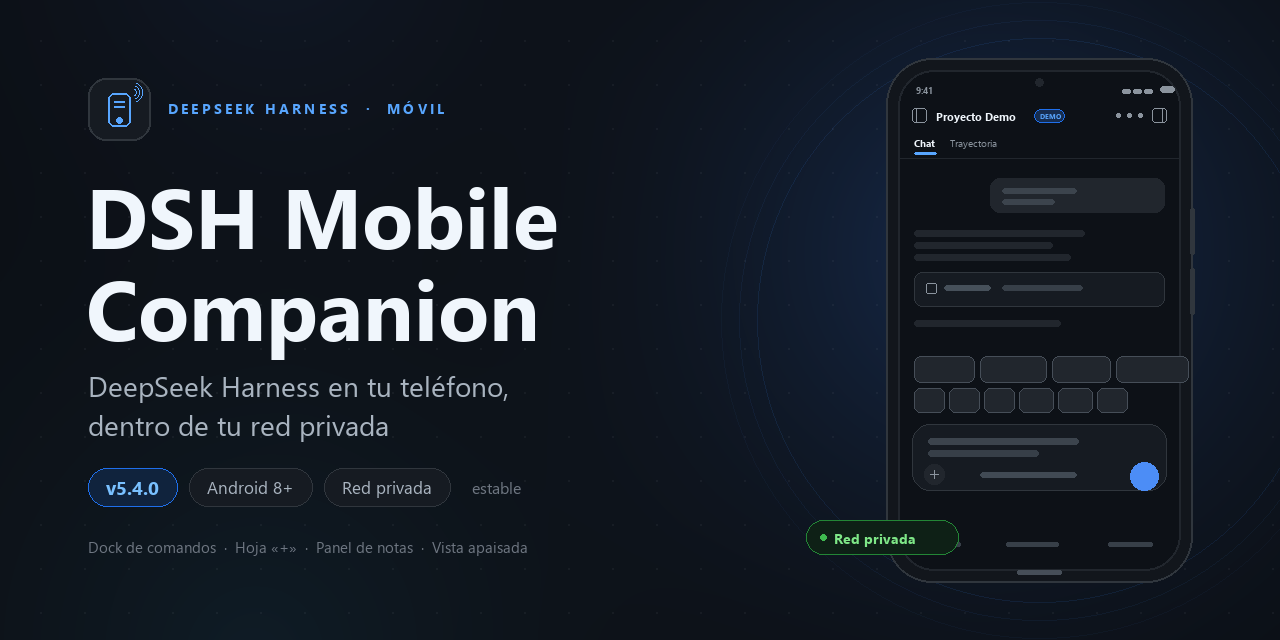
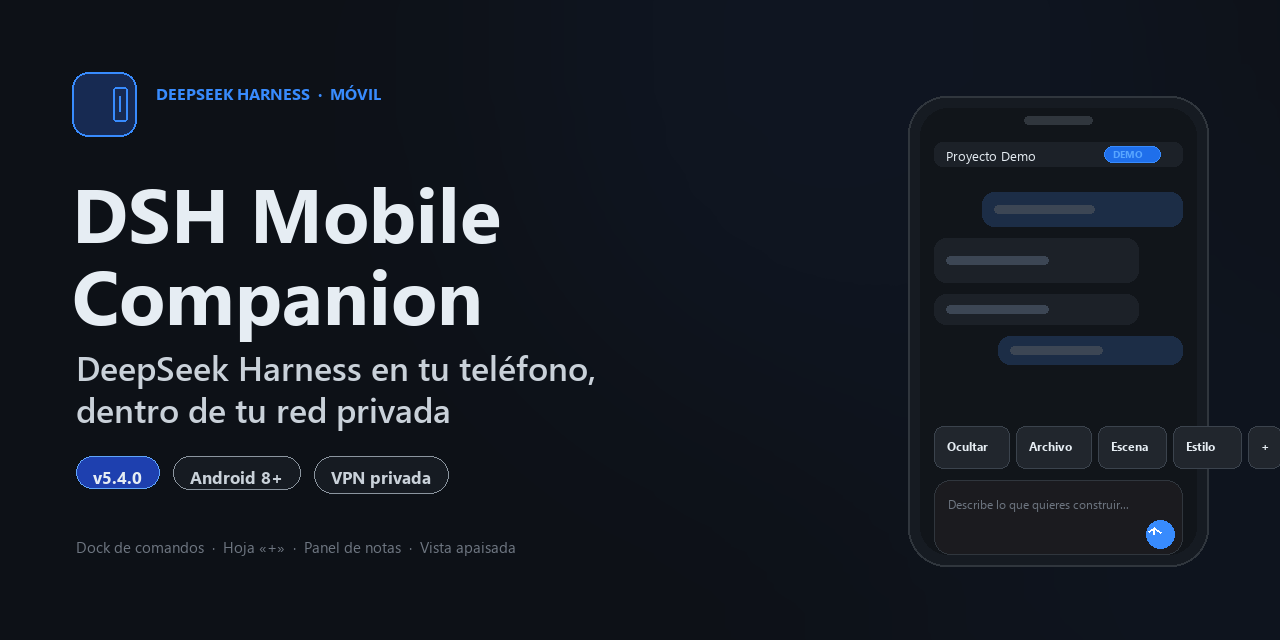
docs: quitar el adjetivo de canal del texto publico y renovar la tarjeta social
La 5.4.0 se presenta como version actual (no como canal). Se renombra la checklist a CHECKLIST-VERIFICACION.md, se actualizan READMEs, SUPPORT, RELEASES.md, RELEASES.json, AI_SETUP y la auditoria. Nueva social-preview 1280x640 sin la etiqueta retirada y con el dock real.

diff --git a/RELEASES.md b/RELEASES.md
@@ -10,7 +10,7 @@ Versiones: [5.4.0](#540) · [5.2.10](#5210) · [5.2.9](#529) · [5.2.8](#528) ·
 
 ## 5.4.0
 
-**DSH Mobile Companion 5.4.0 (`versionCode` 67) — versión estable final de la serie 5**
+**DSH Mobile Companion 5.4.0 (`versionCode` 67) — versión 5.4.0, cierre de la serie 5**
 
 Cierre de la serie 5. La 5.4.0 recoge todo lo publicado desde la 5.2.9: las correcciones de la
 5.2.10 (integridad de las notas, acceso, QR y operación) y el trabajo de producto de la línea 5.3:
@@ -277,7 +277,7 @@ límite de esta versión es un dato de la nota: se ve, se ordena y se filtra, pe
 
 La política de soporte de la línea sigue en [SUPPORT.md](SUPPORT.md): correcciones de seguridad y
 mantenimiento de la serie 5.2, sin promesas de funciones. La comprobación desde el teléfono está en
-[CHECKLIST-ESTABLE.md](CHECKLIST-ESTABLE.md), y el detalle de seguridad de las notas en
+[CHECKLIST-VERIFICACION.md](CHECKLIST-VERIFICACION.md), y el detalle de seguridad de las notas en
 [SECURITY.md](SECURITY.md).
 
 ### Verificación
@@ -395,7 +395,7 @@ desinstalar.
 
 **DSH Mobile Companion 5.2.1 — parche de seguridad (solo puente)**
 
-Versión estable de la serie 5.2. **El APK no cambia**: sigue siendo 5.2.0 (`versionCode` 51),
+Versión actual de la serie 5.2. **El APK no cambia**: sigue siendo 5.2.0 (`versionCode` 51),
 con el mismo SHA-256 y la misma firma; se instala encima sin desinstalar.
 
 ### Qué corrige
@@ -427,9 +427,9 @@ Serie 5.2 congelada: a partir de aquí solo correcciones de seguridad.
 
 ## 5.2.0
 
-**DSH Mobile Companion 5.2.0 (versionCode 51) — versión estable**
+**DSH Mobile Companion 5.2.0 (versionCode 51) — versión actual**
 
-Esta es la **versión estable** de la serie 5. Congela la línea: a partir de aquí solo se publican
+Esta es la **versión actual** de la serie 5. Congela la línea: a partir de aquí solo se publican
 **correcciones de seguridad**, no funciones nuevas. No hay cambios de configuración, formato de
 datos ni API: la 5.1.10 se actualiza a la 5.2.0 encima, sin desinstalar (la firma no cambió desde la
 5.1.7).
@@ -474,8 +474,8 @@ afectada** con un aviso en `bridge.log`; el estado se expone como `contract` en
   Incluye la recomendación de **RustDesk** como soporte remoto opcional (servidor self-hosted o solo
   sobre ZeroTier/Tailscale, contraseña fuerte + 2FA, apagado cuando no se usa); **no es parte del
   producto ni se empaqueta**.
-- `SUPPORT.md` fija la política: 5.2.0 estable y solo correcciones de seguridad; 5.1.x anterior.
-- `CHECKLIST-ESTABLE.md`: comprobación de la versión estable **desde el teléfono**.
+- `SUPPORT.md` fija la política: 5.2.0 publicada y solo correcciones de seguridad; 5.1.x anterior.
+- `CHECKLIST-VERIFICACION.md`: comprobación de la versión actual **desde el teléfono**.
 - `AUDITORIA-EXTERNA.md`: tres prompts listos para auditoría de seguridad, onboarding y APK.
 - `RELEASES.json`: registro legible por máquina de cada build publicado (versión, `versionCode`,
   commit de origen, SHA-256, huella del certificado y fecha).
@@ -527,10 +527,10 @@ desinstala una vez; desde la 5.1.7 se instala encima sin problema.
 
 ### Política de esta línea
 
-- **La 5.2.0 es la versión estable.** Solo un fallo de seguridad crítico produciría una 5.2.1.
+- **La 5.2.0 es la versión actual.** Solo un fallo de seguridad crítico produciría una 5.2.1.
 - La rama `stable/5` conserva exactamente este árbol.
 - El compromiso de mantenimiento a largo plazo se mantiene en un documento interno, fuera de este
-  repositorio; aquí no se promete nada más allá de "estable, solo correcciones de seguridad".
+  repositorio; aquí no se promete nada más allá de "publicada, solo correcciones de seguridad".
 
 ### Cómo usarla
 

diff --git a/AI_SETUP_PROMPT.md b/AI_SETUP_PROMPT.md
@@ -57,7 +57,7 @@ Para que DSH la descubra, instálala en una raíz de skills del proyecto (`.dsh/
 usuario (`~/.dsh/skills/`) y abre una sesión nueva. La skill aparece como
 `mobile-companion-setup`; el prompt de abajo sigue siendo útil como guía legible.
 
-La versión estable actual es la **5.4.0** (`versionCode` 67). El diagnóstico también deja un
+La versión actual es la **5.4.0** (`versionCode` 67). El diagnóstico también deja un
 **recibo verificable**: `doctor.ps1 -Report` escribe
 `doctor-report.json` sin BOM con `apkSha256`, `apkVersion`, `apkVersionCode`, la huella del
 certificado de release (`certSha256Release`) y un `receipt` sha256 sobre el JSON compacto sin el
@@ -194,7 +194,7 @@ Then give a final report in this exact shape:
   computer is on but Harness is down), and that backup.bat / restore.bat protect the device
   registry, the access key and the panel token.
 - Point the user to OPERACION.md for the runbook (approvals, restarts, logs, health, backups, APK
-  updates), CHECKLIST-ESTABLE.md for a check from the phone and SUPPORT.md for the support policy
+  updates), CHECKLIST-VERIFICACION.md for a check from the phone and SUPPORT.md for the support policy
   and the evidence to attach.
 - Remote desktop (for example RustDesk) is an optional recommendation for hands-on support only: it
   is not part of the product and is never bundled. If used, keep it on the private network or a
@@ -390,7 +390,7 @@ Después entrega el informe con esta forma exacta:
   que la computadora está encendida pero Harness está caído), y que backup.bat / restore.bat
   protegen el registro de dispositivos, la clave de acceso y el token del panel.
 - Indica OPERACION.md para el procedimiento (aprobaciones, reinicios, logs, salud, copias,
-  actualización del APK), CHECKLIST-ESTABLE.md para comprobarlo desde el teléfono y SUPPORT.md para
+  actualización del APK), CHECKLIST-VERIFICACION.md para comprobarlo desde el teléfono y SUPPORT.md para
   la política de soporte y la evidencia que hay que adjuntar.
 - El escritorio remoto (por ejemplo RustDesk) es una recomendación opcional solo para soporte
   guiado: no forma parte del producto y nunca se empaqueta. Si se usa, mantenlo en la red privada o
@@ -453,7 +453,7 @@ Tailscale instalado en el teléfono. Ese es el camino soportado y no expone nada
 - `install-agent.ps1` — instalación de extremo a extremo para agentes (`-Json` para evidencia, `-RegisterAutostart` para el arranque automático).
 - [OPERACION.md](OPERACION.md) — runbook for health, restarts, logs, backups and remote support;
   [SUPPORT.md](SUPPORT.md) — support policy and the evidence to attach;
-  [CHECKLIST-ESTABLE.md](CHECKLIST-ESTABLE.md) — the stable-release check from the phone.
+  [CHECKLIST-VERIFICACION.md](CHECKLIST-VERIFICACION.md) — the release check from the phone.
 - [skills/mobile-companion-setup](skills/mobile-companion-setup/) — the same procedure as an
   installable DSH skill, with the failure-to-fix map in [doctor-fixes.json](doctor-fixes.json).
 - `SECURITY.md` — how to report a vulnerability.

diff --git a/CHANGELOG.md b/CHANGELOG.md
@@ -25,13 +25,13 @@ Cambios de repositorio que **no** forman parte del APK publicado. La versión in
   Node/PowerShell/Harness, verificación de `/healthz`, `doctor.ps1` y recibo, log sin secretos y
   códigos de salida 0/1/2/3/4. Verificador propio en `test/verify_install_agent.ps1` (35/35).
 
-## 5.4.0 — `versionCode` 67 (versión estable final de la serie 5)
+## 5.4.0 — `versionCode` 67 (versión 5.4.0, cierre de la serie 5)
 
 
 
 Cierre de la serie 5. La 5.4.0 consolida todo lo publicado desde la 5.2.9: las correcciones de la
 5.2.10 (documentadas más abajo) y el trabajo de producto de la línea 5.3 (comandos por perfil, dock
-compacto, lectura sin conexión, multi-PC). A partir de aquí la serie queda estable: solo correcciones
+compacto, lectura sin conexión, multi-PC). A partir de aquí la serie queda cerrada: solo correcciones
 de seguridad y mantenimiento.
 
 ### Añadido — comandos y teclas configurables por perfil
@@ -126,7 +126,7 @@ de seguridad y mantenimiento.
   5.1.7. El APK 5.4.0 es `versionCode` 67 y el puente y el APK deben actualizarse juntos.
 - Sin dependencias npm nuevas (cero dependencias) y sin cambios en el formato de datos: las notas,
   los chats sincronizados y el registro de dispositivos se conservan.
-- La 5.4.0 es la versión estable de cierre de la serie 5; las publicaciones posteriores de la línea
+- La 5.4.0 es la versión actual de cierre de la serie 5; las publicaciones posteriores de la línea
   son solo de seguridad y mantenimiento. Una función nueva o una adaptación a un Harness
   incompatible saldría como línea nueva.
 
@@ -302,7 +302,7 @@ apagada, sin Internet y sin clave de API.
 - Cambio solo de puente: **el APK no cambia** (5.2.0 / versionCode 51) y se instala igual.
 - Serie 5.2 congelada: este es el parche de seguridad previsto por la política de la línea.
 
-## 5.2.0 — `versionCode` 51 (versión estable)
+## 5.2.0 — `versionCode` 51 (versión actual)
 
 Versión de **fortalecimiento**, no de producto: se mantienen todas las funciones, la configuración
 y el formato de datos de la 5.1.10. La 5.1.10 se puede actualizar a la 5.2.0 encima, sin
@@ -343,7 +343,7 @@ correcciones de seguridad.
   self-hosted o solo sobre ZeroTier/Tailscale, contraseña fuerte + 2FA, apagado cuando no se usa);
   RustDesk **no es parte del producto ni se empaqueta**.
 - **`SUPPORT.md`**: qué está soportado, qué no, y cómo pedir ayuda con evidencia verificable.
-- **`CHECKLIST-ESTABLE.md`**: lista de comprobación de la versión estable **desde el teléfono**.
+- **`CHECKLIST-VERIFICACION.md`**: lista de comprobación de la versión actual **desde el teléfono**.
 - **`AUDITORIA-EXTERNA.md`**: tres prompts listos para auditoría de seguridad, onboarding y APK.
 
 ### Añadido — registro de versiones y política

diff --git a/AUDITORIA-EXTERNA.md b/AUDITORIA-EXTERNA.md
@@ -9,7 +9,7 @@ chat (otro modelo, otro agente o una persona): auditoría de seguridad, instalac
 máquina limpia y auditoría estática del APK. Cada bloque se pega tal cual; incluye el contexto, las
 reglas y los entregables, así que no hace falta explicar nada más.
 
-Repositorio público: <https://github.com/TintaYNodos/dsh-mobile-companion> · Versión estable:
+Repositorio público: <https://github.com/TintaYNodos/dsh-mobile-companion> · Versión actual:
 **5.2.9** (versionCode 53) · Licencia: Business Source License 1.1 (ver [LICENSE](LICENSE)).
 
 Antes de pegar:
@@ -28,7 +28,7 @@ Antes de pegar:
 ```text
 Eres un auditor de seguridad externo. Audita el proyecto DSH Mobile Companion, un puente local en
 Node.js (cero dependencias de npm) más un cliente Android WebView y páginas offline. Repositorio
-público: https://github.com/TintaYNodos/dsh-mobile-companion (rama main; la versión estable es la
+público: https://github.com/TintaYNodos/dsh-mobile-companion (rama main; la versión actual es la
 5.2.9, versionCode 53).
 
 CONTEXTO QUE DEBES VERIFICAR EN EL CÓDIGO, NO SUPONER
@@ -116,7 +116,7 @@ ENTREGABLES
 Eres un evaluador de onboarding. Tu objetivo es comprobar si una persona puede instalar y verificar
 DSH Mobile Companion en una máquina limpia siguiendo SOLO la documentación pública, y medir la
 fricción real. Repositorio público: https://github.com/TintaYNodos/dsh-mobile-companion (rama main;
-versión estable 5.2.9, versionCode 53).
+versión actual 5.2.9, versionCode 53).
 
 CONTEXTO
 - Producto: puente local en Node.js (cero dependencias) + cliente Android WebView + páginas offline.
@@ -125,7 +125,7 @@ CONTEXTO
 - La instalación oficial es Windows (scripts .bat/.ps1) y también hay arranque para macOS/Linux. El
   diagnóstico oficial es doctor.ps1 y el informe se verifica con tools/verify-receipt.mjs.
 - La documentación de referencia está en README.md, AI_SETUP_PROMPT.md, OPERACION.md,
-  CHECKLIST-ESTABLE.md, VPN_OPTIONS.md y SECURITY.md.
+  CHECKLIST-VERIFICACION.md, VPN_OPTIONS.md y SECURITY.md.
 - Licencia Business Source License 1.1.
 
 ENTORNO RECOMENDADO
@@ -171,7 +171,7 @@ ENTREGABLES
 
 ```text
 Eres un auditor estático de aplicaciones Android. Audita el APK publicado de DSH Mobile Companion
-(versión estable 5.2.9, versionCode 53), un cliente WebView ligero que se conecta a un puente local
+(versión actual 5.2.9, versionCode 53), un cliente WebView ligero que se conecta a un puente local
 dentro de una red privada. Repositorio público con el código fuente:
 https://github.com/TintaYNodos/dsh-mobile-companion (rama main).
 

diff --git a/SUPPORT.md b/SUPPORT.md
@@ -1,6 +1,6 @@
 # Política de soporte
 
-**Versión estable actual: 5.4.0** (puente y APK, versionCode 67). La línea estable recibe
+**Versión actual: 5.4.0** (puente y APK, versionCode 67). La línea 5 recibe
 correcciones de seguridad y versiones de mantenimiento de la serie 5. **La 5.3.7 y anteriores
 quedan como versiones anteriores** y ya no reciben cambios: si sigues en ellas, actualiza a 5.4.0.
 
@@ -10,7 +10,7 @@ quedan como versiones anteriores** y ya no reciben cambios: si sigues en ellas, 
 
 | Versión | Estado | Qué recibe |
 | --- | --- | --- |
-| 5.4.0 (estable, versionCode 67) | **Soportada** | Correcciones de seguridad y mantenimiento de la serie 5 |
+| 5.4.0 (actual, versionCode 67) | **Soportada** | Correcciones de seguridad y mantenimiento de la serie 5 |
 | 5.3.7 y anteriores de la serie 5 (incluidas 5.2.x) | Sin soporte | Nada; actualiza a la 5.4.0 |
 | 5.1.x y anteriores | Sin soporte | Nada; actualiza a la 5.4.0 |
 
@@ -46,7 +46,7 @@ soporte de herramientas de terceros. Lo que se intenta resolver:
 - Errores reproducibles del puente (`bridge.mjs`, `src/**`) y de la app Android de este repositorio.
 
 El procedimiento completo de operación está en [OPERACION.md](OPERACION.md) y la comprobación
-guiada desde el teléfono en [CHECKLIST-ESTABLE.md](CHECKLIST-ESTABLE.md).
+guiada desde el teléfono en [CHECKLIST-VERIFICACION.md](CHECKLIST-VERIFICACION.md).
 
 ## Qué no cubre
 
@@ -104,7 +104,7 @@ seguridad**, no al soporte general.
 ## Enlaces
 
 - [OPERACION.md](OPERACION.md): operación y soporte remoto paso a paso.
-- [CHECKLIST-ESTABLE.md](CHECKLIST-ESTABLE.md): comprobación completa desde el teléfono.
+- [CHECKLIST-VERIFICACION.md](CHECKLIST-VERIFICACION.md): comprobación completa desde el teléfono.
 - [SECURITY.md](SECURITY.md): reportar vulnerabilidades y verificar builds.
 - [AI_SETUP_PROMPT.md](AI_SETUP_PROMPT.md): instalación guiada por un agente de IA.
 - [VPN_OPTIONS.md](VPN_OPTIONS.md): redes privadas compatibles.

diff --git a/RELEASING.md b/RELEASING.md
@@ -70,7 +70,7 @@ No lo genera ningún script: la entrada se añade a mano al publicar.
       "commit": "61dc4f4",
[1 lines of base64/hex data omitted]
       "certSha256": "4F:E1:AD:C0:45:71:AF:2B:89:1B:E4:6B:1B:3C:86:39:65:F6:73:A6:B7:25:87:61:47:96:91:7F:49:63:65:23",
-      "notes": "Version estable final de la serie 5 (versionCode 67). Detalle en CHANGELOG.md y RELEASES.md."
+      "notes": "Versión 5.4.0, cierre de la serie 5 (versionCode 67). Detalle en CHANGELOG.md y RELEASES.md."
     }
   ]
 }
@@ -87,7 +87,7 @@ etiquetar. El registro nunca se publica con campos sin completar.
 | `releases[]` | array | Una entrada por versión publicada, en orden de `versionCode` ascendente. La nueva se añade al final. |
 | `version` | string | `MAJOR.MINOR.PATCH` de `src/config.mjs`. |
 | `versionCode` | número | `apkVersionCode` de `src/config.mjs` en el commit publicado. |
-| `channel` | string | `stable` para una versión estable; `prerelease` para una versión preliminar. |
+| `channel` | string | `stable` para una versión publicada; `prerelease` para una versión preliminar. |
 | `releasedAt` | string | Fecha de la publicación en GitHub, `AAAA-MM-DD`. |
 | `commit` | string | SHA completo del **commit de origen** con el que se compiló el APK (el commit de versión). El registro se añade en el commit siguiente, que es el que se etiqueta: un commit no puede contener su propio SHA. |
 | `apkSha256` | string | 64 hex en minúsculas: el SHA-256 que imprime `build-apk.ps1` y que sirve el puente. |

diff --git a/README.es.md b/README.es.md
@@ -454,7 +454,7 @@ Este diseño está pensado para **uso personal**: un operador, sus dispositivos 
 
 ## Estabilidad
 
-**La 5.4.0 es la versión estable actual de la serie 5.** La rama `stable/5` conserva este árbol y solo recibe correcciones de seguridad y mantenimiento; la 5.3.x queda como línea anterior.
+**La 5.4.0 es la versión actual de la serie 5.** La rama `stable/5` conserva este árbol y solo recibe correcciones de seguridad y mantenimiento; la 5.3.x queda como línea anterior.
 
 ## Aviso de proyecto comunitario
 
@@ -472,7 +472,7 @@ Capturas de demostración con datos ficticios: no corresponden a una sesión rea
 
 ## Documentos del proyecto
 
-[SECURITY.md](SECURITY.md) · [AUDIT_CLOSURE.md](AUDIT_CLOSURE.md) · [CONTRIBUTING.md](CONTRIBUTING.md) · [CHANGELOG.md](CHANGELOG.md) · [DISPOSITIVOS.md](DISPOSITIVOS.md) · [RELEASING.md](RELEASING.md) · [OPERACION.md](OPERACION.md) · [SUPPORT.md](SUPPORT.md) · [CHECKLIST-ESTABLE.md](CHECKLIST-ESTABLE.md) · [AUDITORIA-EXTERNA.md](AUDITORIA-EXTERNA.md) · [AI_SETUP_PROMPT.md](AI_SETUP_PROMPT.md) · [LICENSE](LICENSE)
+[SECURITY.md](SECURITY.md) · [AUDIT_CLOSURE.md](AUDIT_CLOSURE.md) · [CONTRIBUTING.md](CONTRIBUTING.md) · [CHANGELOG.md](CHANGELOG.md) · [DISPOSITIVOS.md](DISPOSITIVOS.md) · [RELEASING.md](RELEASING.md) · [OPERACION.md](OPERACION.md) · [SUPPORT.md](SUPPORT.md) · [CHECKLIST-VERIFICACION.md](CHECKLIST-VERIFICACION.md) · [AUDITORIA-EXTERNA.md](AUDITORIA-EXTERNA.md) · [AI_SETUP_PROMPT.md](AI_SETUP_PROMPT.md) · [LICENSE](LICENSE)
 
 ## iPhone / iPad
 

diff --git a/OPERACION.md b/OPERACION.md
@@ -6,7 +6,7 @@ otra): el teléfono abre `http://<IP-PRIVADA>:57420`. El panel de aprobación es
 `127.0.0.1:57421`** y el puente **nunca se expone a Internet**: no se abre un puerto en el router,
 no hay DNS público ni túnel público detrás.
 
-Documentos relacionados: [CHECKLIST-ESTABLE.md](CHECKLIST-ESTABLE.md) (verificación completa desde
+Documentos relacionados: [CHECKLIST-VERIFICACION.md](CHECKLIST-VERIFICACION.md) (verificación completa desde
 el teléfono), [SUPPORT.md](SUPPORT.md) (política de soporte y evidencia), [SECURITY.md](SECURITY.md),
 [DISPOSITIVOS.md](DISPOSITIVOS.md) y [VPN_OPTIONS.md](VPN_OPTIONS.md) (redes privadas compatibles).
 
@@ -245,7 +245,7 @@ hace falta escritorio remoto.
 
 ## 10. Documentos de referencia
 
-- [CHECKLIST-ESTABLE.md](CHECKLIST-ESTABLE.md): lista de comprobación completa desde el teléfono.
+- [CHECKLIST-VERIFICACION.md](CHECKLIST-VERIFICACION.md): lista de comprobación completa desde el teléfono.
 - [SUPPORT.md](SUPPORT.md): política de soporte y qué evidencia enviar.
 - [SECURITY.md](SECURITY.md): cómo reportar una vulnerabilidad y huella del certificado.
 - [DISPOSITIVOS.md](DISPOSITIVOS.md): flujo del panel, roles y revocación.

diff --git a/README.ja.md b/README.ja.md
@@ -447,7 +447,7 @@ cmd /c mklink /J .dsh\skills\mobile-companion-setup skills\mobile-companion-setu
 
 ## プロジェクト文書
 
-[SECURITY.md](SECURITY.md) · [AUDIT_CLOSURE.md](AUDIT_CLOSURE.md) · [CONTRIBUTING.md](CONTRIBUTING.md) · [CHANGELOG.md](CHANGELOG.md) · [DISPOSITIVOS.md](DISPOSITIVOS.md) · [RELEASING.md](RELEASING.md) · [OPERACION.md](OPERACION.md) · [SUPPORT.md](SUPPORT.md) · [CHECKLIST-ESTABLE.md](CHECKLIST-ESTABLE.md) · [AUDITORIA-EXTERNA.md](AUDITORIA-EXTERNA.md) · [AI_SETUP_PROMPT.md](AI_SETUP_PROMPT.md) · [LICENSE](LICENSE)
+[SECURITY.md](SECURITY.md) · [AUDIT_CLOSURE.md](AUDIT_CLOSURE.md) · [CONTRIBUTING.md](CONTRIBUTING.md) · [CHANGELOG.md](CHANGELOG.md) · [DISPOSITIVOS.md](DISPOSITIVOS.md) · [RELEASING.md](RELEASING.md) · [OPERACION.md](OPERACION.md) · [SUPPORT.md](SUPPORT.md) · [CHECKLIST-VERIFICACION.md](CHECKLIST-VERIFICACION.md) · [AUDITORIA-EXTERNA.md](AUDITORIA-EXTERNA.md) · [AI_SETUP_PROMPT.md](AI_SETUP_PROMPT.md) · [LICENSE](LICENSE)
 
 ## iPhone / iPad
 

diff --git a/README.pt.md b/README.pt.md
@@ -449,7 +449,7 @@ Capturas de demonstração com dados fictícios: não mostram uma sessão real n
 
 ## Documentos do projeto
 
-[SECURITY.md](SECURITY.md) · [AUDIT_CLOSURE.md](AUDIT_CLOSURE.md) · [CONTRIBUTING.md](CONTRIBUTING.md) · [CHANGELOG.md](CHANGELOG.md) · [DISPOSITIVOS.md](DISPOSITIVOS.md) · [RELEASING.md](RELEASING.md) · [OPERACION.md](OPERACION.md) · [SUPPORT.md](SUPPORT.md) · [CHECKLIST-ESTABLE.md](CHECKLIST-ESTABLE.md) · [AUDITORIA-EXTERNA.md](AUDITORIA-EXTERNA.md) · [AI_SETUP_PROMPT.md](AI_SETUP_PROMPT.md) · [LICENSE](LICENSE)
+[SECURITY.md](SECURITY.md) · [AUDIT_CLOSURE.md](AUDIT_CLOSURE.md) · [CONTRIBUTING.md](CONTRIBUTING.md) · [CHANGELOG.md](CHANGELOG.md) · [DISPOSITIVOS.md](DISPOSITIVOS.md) · [RELEASING.md](RELEASING.md) · [OPERACION.md](OPERACION.md) · [SUPPORT.md](SUPPORT.md) · [CHECKLIST-VERIFICACION.md](CHECKLIST-VERIFICACION.md) · [AUDITORIA-EXTERNA.md](AUDITORIA-EXTERNA.md) · [AI_SETUP_PROMPT.md](AI_SETUP_PROMPT.md) · [LICENSE](LICENSE)
 
 ## iPhone / iPad
 

diff --git a/README.fr.md b/README.fr.md
@@ -451,7 +451,7 @@ Captures de démonstration avec des données fictives : elles ne montrent ni une
 
 ## Documents du projet
 
-[SECURITY.md](SECURITY.md) · [AUDIT_CLOSURE.md](AUDIT_CLOSURE.md) · [CONTRIBUTING.md](CONTRIBUTING.md) · [CHANGELOG.md](CHANGELOG.md) · [DISPOSITIVOS.md](DISPOSITIVOS.md) · [RELEASING.md](RELEASING.md) · [OPERACION.md](OPERACION.md) · [SUPPORT.md](SUPPORT.md) · [CHECKLIST-ESTABLE.md](CHECKLIST-ESTABLE.md) · [AUDITORIA-EXTERNA.md](AUDITORIA-EXTERNA.md) · [AI_SETUP_PROMPT.md](AI_SETUP_PROMPT.md) · [LICENSE](LICENSE)
+[SECURITY.md](SECURITY.md) · [AUDIT_CLOSURE.md](AUDIT_CLOSURE.md) · [CONTRIBUTING.md](CONTRIBUTING.md) · [CHANGELOG.md](CHANGELOG.md) · [DISPOSITIVOS.md](DISPOSITIVOS.md) · [RELEASING.md](RELEASING.md) · [OPERACION.md](OPERACION.md) · [SUPPORT.md](SUPPORT.md) · [CHECKLIST-VERIFICACION.md](CHECKLIST-VERIFICACION.md) · [AUDITORIA-EXTERNA.md](AUDITORIA-EXTERNA.md) · [AI_SETUP_PROMPT.md](AI_SETUP_PROMPT.md) · [LICENSE](LICENSE)
 
 ## iPhone / iPad
 

diff --git a/README.md b/README.md
@@ -473,7 +473,7 @@ Demonstration screenshots with fictitious data: they do not show a real session 
 
 ## Project documents
 
-[SECURITY.md](SECURITY.md) · [AUDIT_CLOSURE.md](AUDIT_CLOSURE.md) · [CONTRIBUTING.md](CONTRIBUTING.md) · [CHANGELOG.md](CHANGELOG.md) · [DISPOSITIVOS.md](DISPOSITIVOS.md) · [RELEASING.md](RELEASING.md) · [OPERACION.md](OPERACION.md) · [SUPPORT.md](SUPPORT.md) · [CHECKLIST-ESTABLE.md](CHECKLIST-ESTABLE.md) · [AUDITORIA-EXTERNA.md](AUDITORIA-EXTERNA.md) · [AI_SETUP_PROMPT.md](AI_SETUP_PROMPT.md) · [LICENSE](LICENSE)
+[SECURITY.md](SECURITY.md) · [AUDIT_CLOSURE.md](AUDIT_CLOSURE.md) · [CONTRIBUTING.md](CONTRIBUTING.md) · [CHANGELOG.md](CHANGELOG.md) · [DISPOSITIVOS.md](DISPOSITIVOS.md) · [RELEASING.md](RELEASING.md) · [OPERACION.md](OPERACION.md) · [SUPPORT.md](SUPPORT.md) · [CHECKLIST-VERIFICACION.md](CHECKLIST-VERIFICACION.md) · [AUDITORIA-EXTERNA.md](AUDITORIA-EXTERNA.md) · [AI_SETUP_PROMPT.md](AI_SETUP_PROMPT.md) · [LICENSE](LICENSE)
 
 ## iPhone / iPad
 
